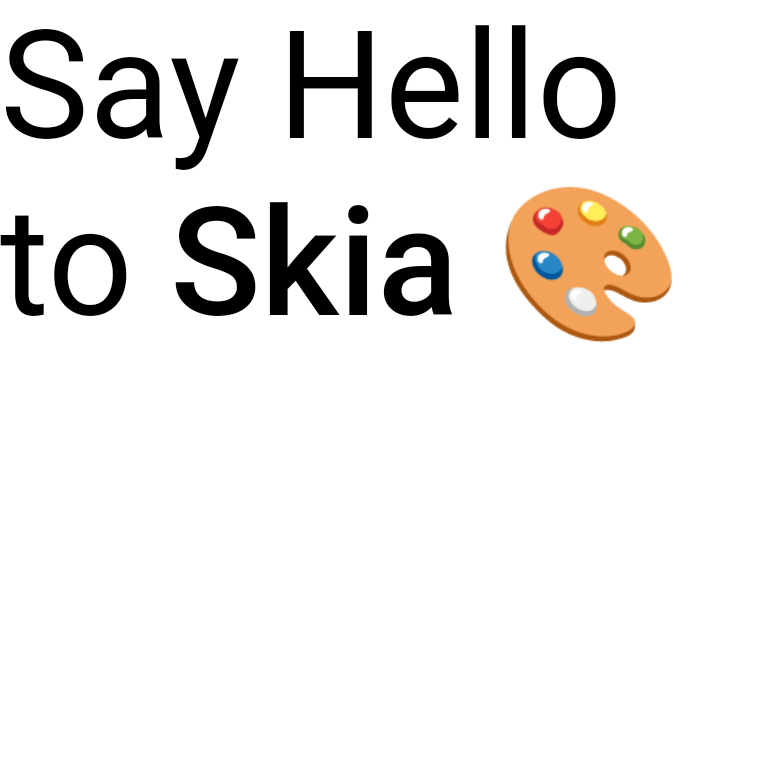
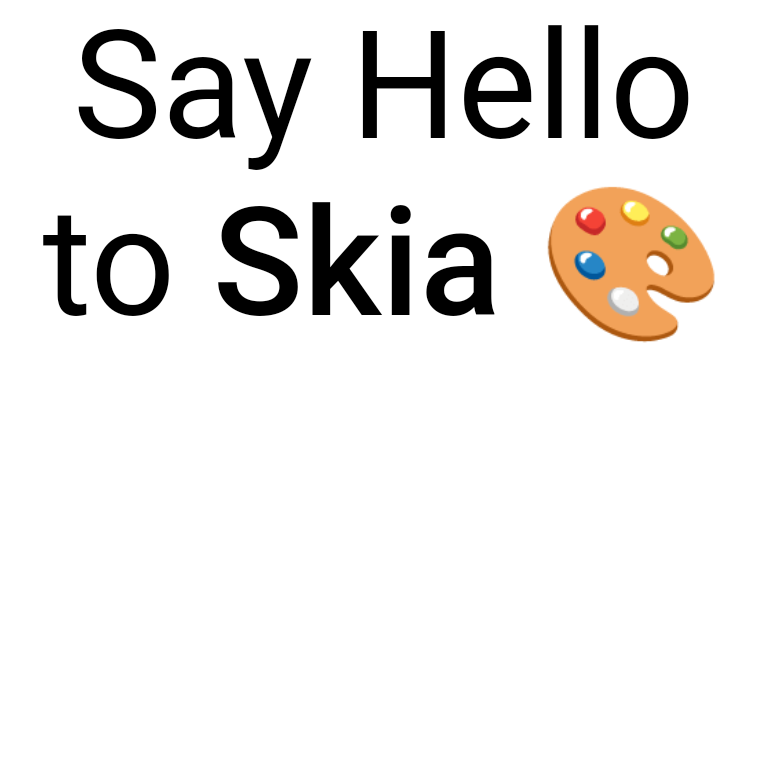
Minor doc update

Changed region(s): [[0.0, 0.2188, 0.9375, 0.4688], [0.0, 0.0312, 0.9062, 0.2188]]

diff --git a/package/src/renderer/__tests__/e2e/Paragraphs.spec.tsx b/package/src/renderer/__tests__/e2e/Paragraphs.spec.tsx
@@ -60,7 +60,12 @@ describe("Paragraphs", () => {
           fontFamilies: ["Roboto", "Noto"],
           fontSize: 50,
         };
-        const para = Skia.ParagraphBuilder.Make({}, provider)
+        const para = Skia.ParagraphBuilder.Make(
+          {
+            textAlign: ctx.textAlign,
+          },
+          provider
+        )
           .pushStyle(textStyle)
           .addText("Say Hello to ")
           .pushStyle({ ...textStyle, fontStyle: { weight: 500 } })
@@ -75,6 +80,7 @@ describe("Paragraphs", () => {
         RobotoMedium,
         Noto: surface.OS === "node" ? Noto : [],
         OS: surface.OS,
+        textAlign: TextAlign.Center,
         width: surface.width,
       }
     );

diff --git a/example/src/Tests/Tests.tsx b/example/src/Tests/Tests.tsx
@@ -108,7 +108,7 @@ export const Tests = ({ assets }: TestsProps) => {
     <View style={{ flex: 1, backgroundColor: "white" }}>
       <Text style={{ color: "black" }}>
         {client === null
-          ? `⚪ Connecting to server: ${hostname}. Make sure to run \`yarn e2e\` or similar`
+          ? `⚪ Connecting to ${hostname}. Use yarn e2e to run tests.`
           : "🟢 Waiting for the server to send tests"}
       </Text>
       <Canvas style={{ width: size, height: size }} ref={ref}>

diff --git a/docs/docs/text/paragraph.md b/docs/docs/text/paragraph.md
@@ -5,8 +5,7 @@ sidebar_label: Paragraph
 slug: /text/paragraph
 ---
 
-React Native Skia offers an API to perform text layouts.
-Behind the scene, this API is the Skia Paragraph API.
+React Native Skia offers an API to perform text layouts using the Skia Paragraph API.
 
 ## Hello World
 
@@ -16,7 +15,7 @@ Other system fonts will are available as well.
 
 ```tsx twoslash
 import { useMemo } from "react";
-import { Paragraph, Skia, useFonts } from "@shopify/react-native-skia";
+import { Paragraph, Skia, useFonts, TextAlign } from "@shopify/react-native-skia";
 
 const MyParagraph = () => {
   const customFontMgr = useFonts({
@@ -31,12 +30,15 @@ const MyParagraph = () => {
     if (!customFontMgr) {
       return null;
     }
+    const paragraphStyle = {
+      textAlign: TextAlign.Center
+    };
     const textStyle = {
       color: Skia.Color("black"),
       fontFamilies: ["Roboto"],
       fontSize: 50,
     };
-    return Skia.ParagraphBuilder.Make({}, customFontMgr)
+    return Skia.ParagraphBuilder.Make(paragraphStyle, customFontMgr)
       .pushStyle(textStyle)
       .addText("Say Hello to ")
       .pushStyle({ ...textStyle, fontStyle: { weight: 500 } })
